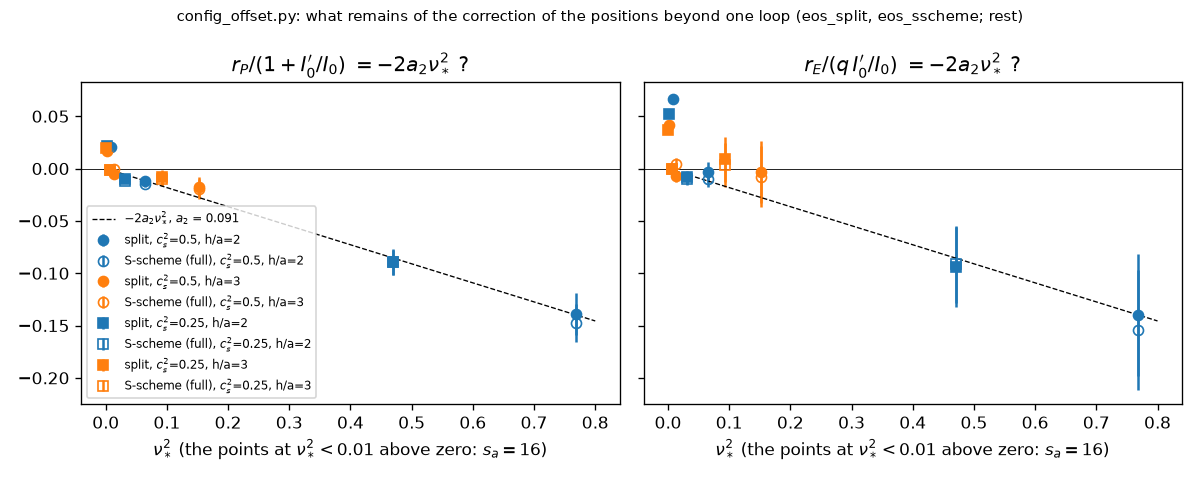
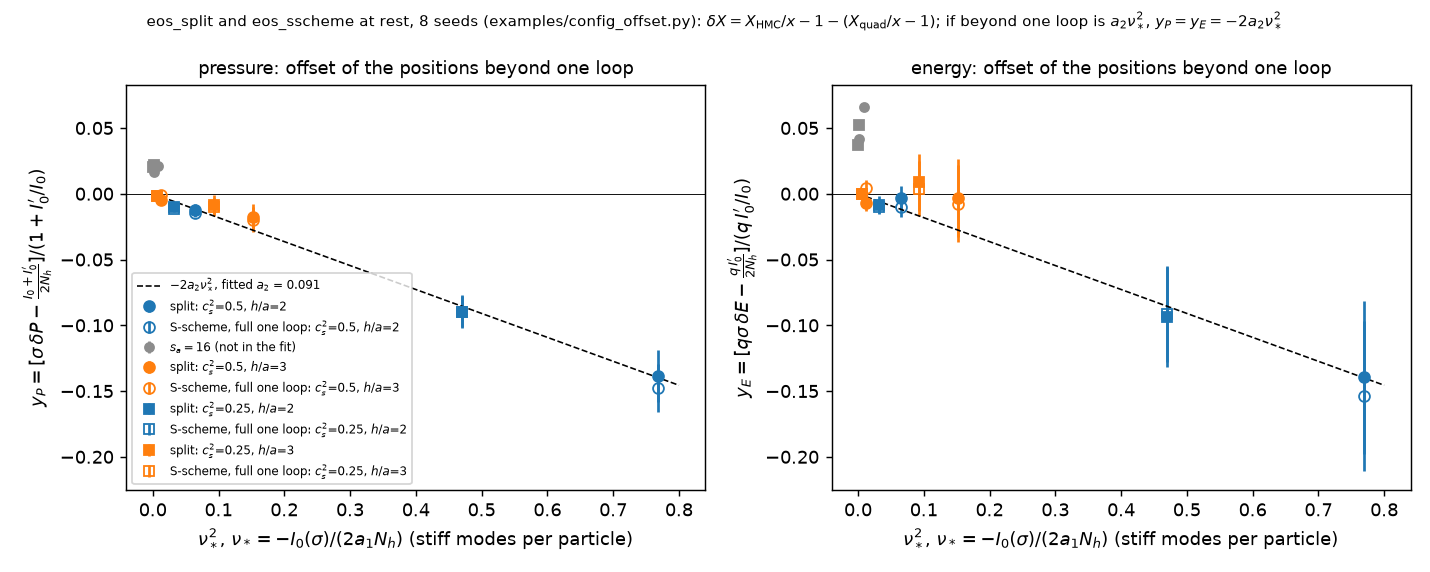
config_offset figure: explicit axes (y_P, y_E, nu_*), s_a = 16 marked and left out of the fit, the fitted line; caption defines every quantity

diff --git a/examples/config_offset.py b/examples/config_offset.py
@@ -83,25 +83,34 @@ print("written", out)
 
 try:
     import matplotlib;  matplotlib.use("Agg");  import matplotlib.pyplot as plt
-    fig, axs = plt.subplots(1, 2, figsize=(10, 4), sharey=True)
-    for ax, (y, dy, lab) in zip(axs, (("yP", "dyP", r"$r_P/(1+I_0'/I_0)$"), ("yE", "dyE", r"$r_E/(q\,I_0'/I_0)$"))):
+    a2 = float(os.environ.get("SR_A2", "0.091"))            # the fit of the s_a ≥ 54 points (P and E; docs/sscheme_plan.tex)
+    fig, axs = plt.subplots(1, 2, figsize=(11, 4.4), sharey=True)
+    panels = (("yP", "dyP", "pressure",
+               r"$y_P=[\sigma\,\delta P-\frac{I_0+I_0'}{2N_h}]/(1+I_0'/I_0)$"),
+              ("yE", "dyE", "energy",
+               r"$y_E=[q\sigma\,\delta E-\frac{q\,I_0'}{2N_h}]/(q\,I_0'/I_0)$"))
+    for ax, (y, dy, name, lab) in zip(axs, panels):
         for c2, mk in ((0.5, "o"), (0.25, "s")):
             for ha, col in ((2.0, "C0"), (3.0, "C1")):
-                rr = [r for r in rows if r["c2"] == c2 and r["ha"] == ha and r["scheme"] == "split"]
+                for sc, fill in (("split", True), ("sscheme-full", False)):
+                    rr = [r for r in rows if r["c2"] == c2 and r["ha"] == ha and r["scheme"] == sc and r["s_a"] >= 54]
+                    if rr:
+                        ax.errorbar([r["nu"]**2 for r in rr], [r[y] for r in rr], [r[dy] for r in rr], fmt=mk, color=col,
+                                    mfc=(col if fill else "none"), ms=6,
+                                    label=f"{'split' if fill else 'S-scheme, full one loop'}: $c_s^2$={c2}, $h/a$={ha:g}")
+                rr = [r for r in rows if r["c2"] == c2 and r["ha"] == ha and r["scheme"] == "split" and r["s_a"] < 54]
                 if rr:
-                    ax.errorbar([r["nu"]**2 for r in rr], [r[y] for r in rr], [r[dy] for r in rr], fmt=mk, color=col,
-                                label=f"split, $c_s^2$={c2}, h/a={ha:g}")
-                rr = [r for r in rows if r["c2"] == c2 and r["ha"] == ha and r["scheme"] != "split"]
-                if rr:
-                    ax.errorbar([r["nu"]**2 for r in rr], [r[y] for r in rr], [r[dy] for r in rr], fmt=mk, mfc="none", color=col,
-                                label=f"S-scheme (full), $c_s^2$={c2}, h/a={ha:g}")
-        a2 = float(os.environ.get("SR_A2", "0.091"))        # the fit of the s_a ≥ 54 points (P and E; docs/sscheme_plan.tex)
-        xx = np.linspace(0, 0.8, 50);  ax.plot(xx, -2 * a2 * xx, "k--", lw=0.8, label=f"$-2a_2\\nu_*^2$, $a_2$ = {a2:g}")
-        ax.axhline(0, color="k", lw=0.5);  ax.set_xlabel(r"$\nu_*^2$ (the points at $\nu_*^2<0.01$ above zero: $s_a=16$)")
-        ax.set_title(lab + r" $=-2a_2\nu_*^2$ ?")
-    axs[0].legend(fontsize=7)
-    fig.suptitle("config_offset.py: what remains of the correction of the positions beyond one loop (eos_split, eos_sscheme; rest)", fontsize=9)
-    fig.tight_layout();  fig.savefig(os.path.join(FIGS, "config_offset_nu2.png"), dpi=120)
+                    ax.errorbar([r["nu"]**2 for r in rr], [r[y] for r in rr], [r[dy] for r in rr], fmt=mk, color="0.55", mfc="0.55", ms=5,
+                                label=("$s_a=16$ (not in the fit)" if (c2, ha) == (0.5, 2.0) else None))
+        xx = np.linspace(0, 0.8, 50);  ax.plot(xx, -2 * a2 * xx, "k--", lw=0.9, label=f"$-2a_2\\nu_*^2$, fitted $a_2$ = {a2:g}")
+        ax.axhline(0, color="k", lw=0.5)
+        ax.set_xlabel(r"$\nu_*^2$, $\nu_*=-I_0(\sigma)/(2a_1N_h)$ (stiff modes per particle)")
+        ax.set_ylabel(lab);  ax.yaxis.set_tick_params(labelleft=True)
+        ax.set_title(f"{name}: offset of the positions beyond one loop", fontsize=10)
+    axs[0].legend(fontsize=6.5, loc="lower left")
+    fig.suptitle("eos_split and eos_sscheme at rest, 8 seeds (examples/config_offset.py): "
+                 r"$\delta X = X_{\rm HMC}/x-1-(X_{\rm quad}/x-1)$; if beyond one loop is $a_2\nu_*^2$, $y_P=y_E=-2a_2\nu_*^2$", fontsize=8.5)
+    fig.tight_layout();  fig.savefig(os.path.join(FIGS, "config_offset_nu2.png"), dpi=130)
     print("written", os.path.join(FIGS, "config_offset_nu2.png"))
 except Exception as ex:
     print("no figure:", ex)

diff --git a/docs/sscheme_plan.tex b/docs/sscheme_plan.tex
@@ -998,9 +998,16 @@ $c_s^2$ & $s_a$ & $h/a$ & $\nu_*$ & (0) & (1) & (2) & (3) & $\pm$ & (0) & (1) & 
 \end{itemize}
 \begin{figure}[h]
 \begin{center}\includegraphics[width=\textwidth]{figs/config_offset_nu2.png}\end{center}
-\caption{\texttt{eos\_split} and \texttt{eos\_sscheme}, at rest, 8 seeds; \nolinkurl{examples/config_offset.py}.  The remainder of the offset of the
-positions beyond one loop, divided by its factor in $I_0'/I_0$, against $\nu_*^2$; the dashed line is $-2a_2\nu_*^2$ with the fitted $a_2=0.091$.
-The points at $\nu_*^2<0.01$ above zero are $s_a=16$.}
+\caption{What remains of the offset of the positions after the one-loop correction, against $\nu_*^2$.  Runs \texttt{eos\_split} (filled
+symbols) and \texttt{eos\_sscheme}, the full one-loop S-scheme (open symbols, $s_a=54$ and 541 only), at rest, $L=0.45$, 8 seeds of 300 updates;
+\nolinkurl{examples/config_offset.py}.  Circles $c_s^2=1/2$, squares $c_s^2=1/4$; blue $h/a=2$, orange $h/a=3$; grey the lines at $s_a=16$, which are
+left out of the fit.  For each line, $\delta P$ and $\delta E$ are column (1) of \Tab{tab:eoserr}, the error of hybrid Monte Carlo less the exact
+single-particle error of the same scheme.  Left, the pressure:
+$y_P=\big[\sigma\,\delta P-(I_0+I_0')/(2N_h)\big]/(1+I_0'/I_0)$, that is the remainder after the one-loop prediction, times $\sigma$, divided by its
+factor in \Eq{a2}.  Right, the energy: $y_E=\big[q\sigma\,\delta E-qI_0'/(2N_h)\big]/(qI_0'/I_0)$.  The horizontal axis is $\nu_*^2$, with
+$\nu_*=-I_0(\sigma)/(2a_1N_h)$ the number of stiff modes per particle.  If what lies beyond one loop is the term $a_2\nu_*^2$ of $\omega$, both panels
+fall on the one line $y=-2a_2\nu_*^2$ (dashed), drawn with $a_2=0.091$ fitted to the 16 points at $s_a\ge54$ of split ($P$ and $E$ together,
+$\chi^2/{\rm dof}=0.73$).  Error bars: the statistical error of the HMC mean, scaled in the same way.}
 \label{fig:nu2}
 \end{figure}
 
